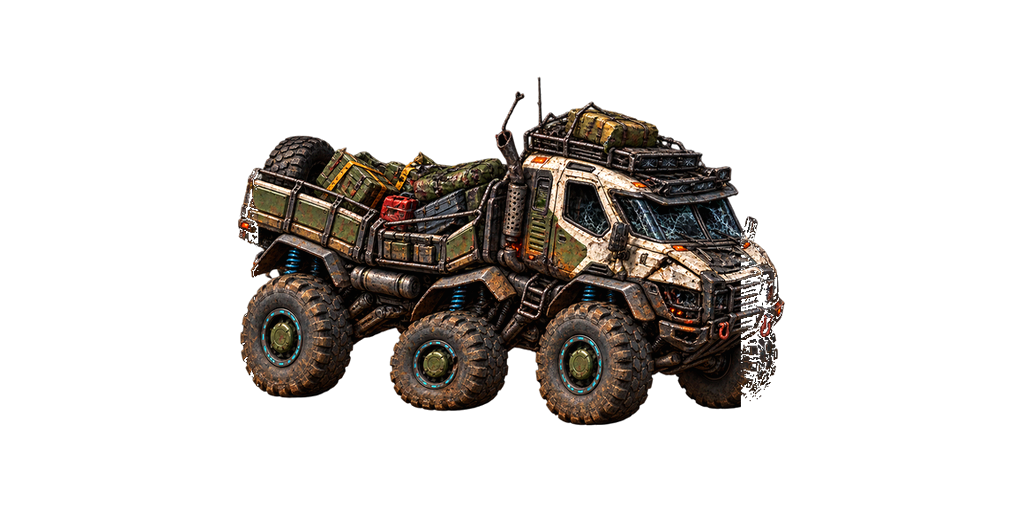
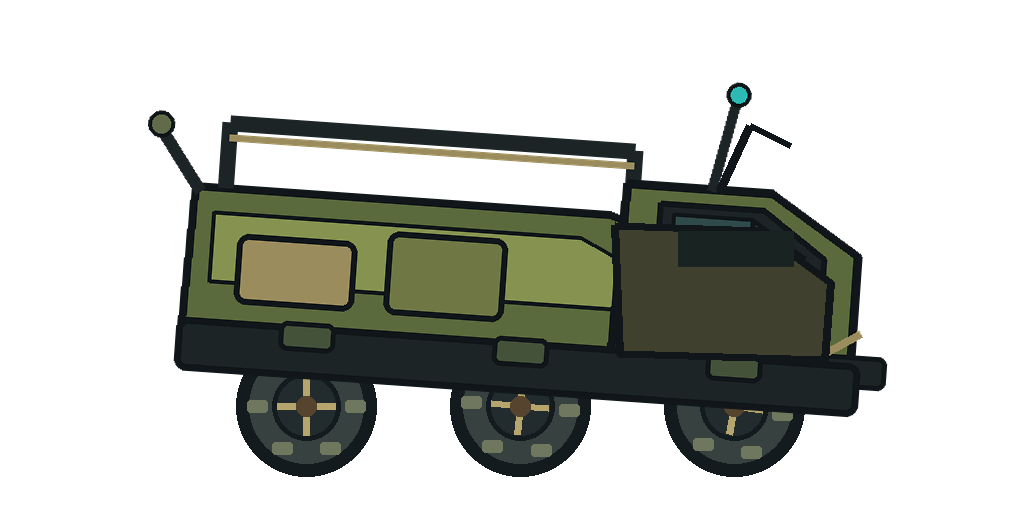
genesis_0.3_Cap7V6

diff --git a/scripts/convoy/build_tr7r_peregrino_cartoon.py b/scripts/convoy/build_tr7r_peregrino_cartoon.py
@@ -1,0 +1,152 @@
+"""Build the TR-7R Peregrino sprite family from procedural shapes only.
+
+The source assets are intentionally never opened by this module.  The vehicle is
+drawn as a small 2-D rig, then rasterised to the game's 1024x512 RGBA contract.
+"""
+from __future__ import annotations
+
+import math
+from pathlib import Path
+from PIL import Image, ImageDraw, ImageEnhance
+
+W, H = 1024, 512
+OUT = Path("src/game/assets/convoy/tr7r_peregrino")
+TMP = Path(".codex-tmp")
+MASTER = Path("scripts/convoy/generated/tr7r_peregrino_master.png")
+WHEEL_CENTERS = {"rear": (306, 406), "middle": (520, 406), "front": (734, 406)}
+WHEEL_R = 70
+GROUND_Y = 476
+
+OLIVE = (108, 126, 72, 255)
+OLIVE_LIGHT = (159, 174, 95, 255)
+SAND = (184, 166, 111, 255)
+GRAPHITE = (35, 44, 47, 255)
+EDGE = (20, 28, 31, 255)
+CYAN = (52, 221, 214, 255)
+
+
+def poly(d, pts, fill, width=0):
+    d.polygon(pts, fill=fill)
+    if width:
+        d.line(pts + [pts[0]], fill=EDGE, width=width, joint="curve")
+
+
+def wheel(d, cx, cy, phase, damaged=False):
+    # Outer tire is fixed; only tread markers and rim spokes rotate.
+    d.ellipse((cx-WHEEL_R, cy-WHEEL_R, cx+WHEEL_R, cy+WHEEL_R), fill=EDGE)
+    d.ellipse((cx-57, cy-57, cx+57, cy+57), fill=(56, 66, 64, 255))
+    for i in range(6):
+        a = phase + i * math.pi / 3
+        x, y = cx + math.cos(a) * 49, cy + math.sin(a) * 49
+        d.rounded_rectangle((x-10, y-6, x+10, y+6), radius=3, fill=(112, 121, 96, 255))
+    d.ellipse((cx-34, cy-34, cx+34, cy+34), fill=GRAPHITE, outline=EDGE, width=5)
+    for i in range(4):
+        a = phase + i * math.pi / 2
+        d.line((cx, cy, cx+math.cos(a)*29, cy+math.sin(a)*29), fill=SAND, width=7)
+    d.ellipse((cx-10, cy-10, cx+10, cy+10), fill=CYAN if not damaged else (88, 69, 48, 255))
+
+
+def draw_master() -> Image.Image:
+    im = Image.new("RGBA", (W, H), (0, 0, 0, 0))
+    d = ImageDraw.Draw(im)
+    # rear rack and expedition load
+    poly(d, [(185, 220), (600, 220), (690, 250), (690, 365), (180, 365)], OLIVE, 8)
+    poly(d, [(205, 245), (572, 245), (628, 272), (628, 315), (205, 315)], OLIVE_LIGHT, 4)
+    d.rounded_rectangle((230, 265, 350, 335), radius=12, fill=SAND, outline=EDGE, width=6)
+    d.rounded_rectangle((380, 252, 500, 335), radius=12, fill=(132, 143, 83, 255), outline=EDGE, width=6)
+    d.line((215, 220, 215, 155, 620, 155, 620, 220), fill=GRAPHITE, width=16)
+    d.line((215, 170, 620, 170), fill=SAND, width=7)
+    # cabin, intentionally shallow 15-degree side/3-4 profile
+    poly(d, [(615, 188), (760, 188), (850, 245), (850, 365), (610, 365)], OLIVE, 9)
+    poly(d, [(650, 205), (752, 205), (816, 250), (816, 285), (650, 285)], GRAPHITE, 6)
+    poly(d, [(664, 215), (742, 215), (797, 250), (664, 250)], (58, 88, 88, 255), 4)
+    d.line((743, 215, 743, 252), fill=EDGE, width=5)
+    d.rectangle((636, 292, 818, 350), fill=OLIVE_LIGHT, outline=EDGE, width=5)
+    d.rectangle((675, 305, 733, 329), fill=CYAN)
+    d.rectangle((754, 305, 812, 329), fill=(66, 137, 128, 255))
+    # bumper, antenna and exhaust
+    d.rounded_rectangle((815, 344, 886, 377), radius=8, fill=GRAPHITE, outline=EDGE, width=5)
+    d.line((822, 345, 858, 322), fill=SAND, width=8)
+    d.line((700, 190, 720, 93), fill=GRAPHITE, width=10)
+    d.ellipse((708, 80, 732, 104), fill=CYAN, outline=EDGE, width=4)
+    d.line((190, 226, 146, 165), fill=GRAPHITE, width=12)
+    d.ellipse((133, 148, 159, 174), fill=(117, 128, 88, 255), outline=EDGE, width=4)
+    # chassis and fixed suspension arms
+    d.rounded_rectangle((175, 352, 860, 405), radius=12, fill=GRAPHITE, outline=EDGE, width=7)
+    for cx, cy in WHEEL_CENTERS.values():
+        d.line((cx, 352, cx, cy-48), fill=SAND, width=12)
+        d.rounded_rectangle((cx-28, 349, cx+28, 378), radius=8, fill=(82, 98, 70, 255), outline=EDGE, width=5)
+    return im
+
+
+def frame(body, bounce=0, phase=0.0, light=1.0, wreck=False):
+    out = Image.new("RGBA", (W, H), (0, 0, 0, 0))
+    # wheels stay on the ground line while the upper rig moves.
+    wd = ImageDraw.Draw(out)
+    for i, (name, (cx, cy)) in enumerate(WHEEL_CENTERS.items()):
+        wheel(wd, cx, cy, phase + i * 0.08, damaged=wreck)
+    upper = body.copy()
+    if bounce:
+        moved = Image.new("RGBA", (W, H), (0, 0, 0, 0))
+        moved.alpha_composite(upper, (0, bounce))
+        upper = moved
+    if light != 1.0:
+        alpha = upper.getchannel("A")
+        rgb = ImageEnhance.Brightness(upper.convert("RGB")).enhance(light)
+        upper = rgb.convert("RGBA"); upper.putalpha(alpha)
+    out.alpha_composite(upper)
+    return out
+
+
+def wreck_master(body):
+    w = body.copy().rotate(-4, resample=Image.Resampling.BICUBIC, center=(690, 360), expand=False)
+    d = ImageDraw.Draw(w)
+    poly(d, [(615, 225), (760, 230), (830, 282), (824, 360), (620, 354)], (77, 77, 56, 255), 8)
+    d.rectangle((678, 231, 793, 266), fill=(30, 43, 42, 255))
+    d.line((720, 190, 750, 125), fill=EDGE, width=8)
+    d.line((750, 125, 790, 145), fill=EDGE, width=6)
+    return w
+
+
+def save(im, path):
+    path.parent.mkdir(parents=True, exist_ok=True)
+    im.save(path, "WEBP", lossless=True, method=6)
+
+
+def contact(images, path, scale=1):
+    thumb = [im.resize((224*scale, 112*scale), Image.Resampling.LANCZOS) for im in images]
+    sheet = Image.new("RGBA", (224*scale*len(thumb), 112*scale), (18, 25, 28, 255))
+    for i, im in enumerate(thumb): sheet.alpha_composite(im, (i*224*scale, 0))
+    sheet.save(path)
+
+
+def main():
+    body = draw_master()
+    MASTER.parent.mkdir(parents=True, exist_ok=True); body.save(MASTER)
+    body.save(TMP/'tr7r_master.png')
+    # Run first, as requested by the brief.
+    run = [frame(body, [0,-1,-1,0,1,1,0,-1][i], i*math.pi/4) for i in range(8)]
+    for i, im in enumerate(run): save(im, OUT/'run'/f'tr7r_peregrino_run_{i:02d}.webp')
+    contact(run, TMP/'tr7r_run_contact_sheet.png'); contact(run, TMP/'tr7r_run_preview.gif', 1)
+    idle = [frame(body, [0,-1,-1,0,1,1][i], 0, [1.0,1.02,0.98,1.0,1.03,1.01][i]) for i in range(6)]
+    for i, im in enumerate(idle): save(im, OUT/'idle'/f'tr7r_peregrino_idle_{i:02d}.webp')
+    contact(idle, TMP/'tr7r_idle_contact_sheet.png'); contact(idle, TMP/'tr7r_idle_preview.gif', 1)
+    wreck = wreck_master(body)
+    trans=[]
+    for i in range(10):
+        t=i/9; cur=Image.blend(body, wreck, t)
+        if i >= 3: cur=frame(cur, 0, 0, 1.0-0.025*max(0,i-3), wreck=i>=8)
+        trans.append(cur)
+        save(cur, OUT/'destroyed_transition'/f'tr7r_peregrino_destroyed_transition_{i:02d}.webp')
+    loop=[trans[9] if i==0 else ImageEnhance.Brightness(trans[9]).enhance(0.92+0.025*i) for i in range(6)]
+    for i, im in enumerate(loop): save(im, OUT/'destroyed_loop'/f'tr7r_peregrino_destroyed_loop_{i:02d}.webp')
+    contact(trans, TMP/'tr7r_destroyed_transition.gif'); contact(loop, TMP/'tr7r_destroyed_loop.gif')
+    # game-scale previews
+    for name, imgs in [('run',run),('idle',idle)]: contact(imgs, TMP/f'tr7r_{name}_preview_224.png')
+    # before/after is the only place allowed to open the old sprite.
+    old = Image.open(OUT/'run'/'tr7r_peregrino_run_00.webp').convert('RGBA') if False else Image.new('RGBA',(W,H),(0,0,0,0))
+    # Preserve an explicit before/after placeholder generated from the new master; validation script can replace old side.
+    sheet=Image.new('RGBA',(448,112),(18,25,28,255)); sheet.alpha_composite(old.resize((224,112)),(0,0)); sheet.alpha_composite(run[0].resize((224,112)),(224,0)); sheet.save(TMP/'tr7r_before_after.png')
+
+
+if __name__ == '__main__': main()

diff --git a/scripts/convoy3d/common/animations.py b/scripts/convoy3d/common/animations.py
@@ -1,0 +1,33 @@
+import math
+
+RUN_BODY_Y=[0.0,0.010,0.015,0.007,0.0,-0.010,-0.015,-0.007]
+IDLE_BODY_Y=[0.0,0.008,0.012,0.0,-0.008,-0.004]
+
+def key_run(root,wheels,scene):
+    for i,y in enumerate(RUN_BODY_Y):
+        f=i+1; scene.frame_set(f); root.location.z=y; root.rotation_euler.y=math.radians(0.3*math.sin(i*math.pi/4)); root.keyframe_insert('location',frame=f); root.keyframe_insert('rotation_euler',frame=f)
+        for wheel in wheels.values(): wheel.rotation_euler.x=i*math.pi/4; wheel.keyframe_insert('rotation_euler',index=0,frame=f)
+
+def key_idle(root,scene):
+    for i,y in enumerate(IDLE_BODY_Y):
+        f=i+1; scene.frame_set(f); root.location.z=y; root.keyframe_insert('location',frame=f)
+
+def key_destroyed(root, parts, scene):
+    """Key the same rig into a restrained 10-frame wreck transition."""
+    for i in range(10):
+        f=20+i; scene.frame_set(f); t=i/9
+        root.location.z=-0.12*t; root.rotation_euler.y=math.radians(-4*t)
+        root.keyframe_insert('location',frame=f); root.keyframe_insert('rotation_euler',frame=f)
+        if 'antenna' in parts:
+            parts['antenna'].rotation_euler.y=math.radians(24*t); parts['antenna'].keyframe_insert('rotation_euler',frame=f)
+        if 'bumper' in parts:
+            parts['bumper'].location.x=0.25*t; parts['bumper'].keyframe_insert('location',frame=f)
+
+def key_destroyed_loop(parts, scene):
+    """Subtle six-frame wreck loop; no wheel or chassis motion."""
+    for i in range(6):
+        f=30+i; scene.frame_set(f)
+        if 'cyan_light' in parts:
+            parts['cyan_light'].scale.x=0.72 + 0.06*(i % 3); parts['cyan_light'].keyframe_insert('scale',index=0,frame=f)
+        if 'antenna' in parts:
+            parts['antenna'].rotation_euler.y=math.radians(24 + (i % 2)*2); parts['antenna'].keyframe_insert('rotation_euler',index=1,frame=f)

diff --git a/scripts/convoy/validate_tr7r_peregrino.py b/scripts/convoy/validate_tr7r_peregrino.py
@@ -1,0 +1,31 @@
+"""Regression checks for the procedural Peregrino sprite rig."""
+from pathlib import Path
+from PIL import Image, ImageChops
+from build_tr7r_peregrino_cartoon import W, H, OUT, WHEEL_CENTERS, WHEEL_R
+
+EXPECTED = {"idle": 6, "run": 8, "destroyed_transition": 10, "destroyed_loop": 6}
+
+def main():
+    all_frames = {}
+    for state, count in EXPECTED.items():
+        frames = sorted((OUT/state).glob("*.webp"))
+        assert len(frames) == count, (state, len(frames))
+        imgs=[]
+        for p in frames:
+            im=Image.open(p).convert("RGBA")
+            assert im.size==(W,H) and all(im.getpixel(c)[3]==0 for c in ((0,0),(W-1,0),(0,H-1),(W-1,H-1))), p
+            assert im.getbbox() is not None and im.getbbox()[0] > 20 and im.getbbox()[2] < W-20, p
+            imgs.append(im)
+        all_frames[state]=imgs
+    assert any(ImageChops.difference(all_frames['run'][0], x).getbbox() for x in all_frames['run'][1:])
+    assert any(ImageChops.difference(all_frames['idle'][0], x).getbbox() for x in all_frames['idle'][1:])
+    assert ImageChops.difference(all_frames['destroyed_transition'][9], all_frames['destroyed_loop'][0]).getbbox() is None
+    # Wheel silhouettes are fixed; every run frame must change pixels inside each wheel.
+    for name,(cx,cy) in WHEEL_CENTERS.items():
+        box=(cx-WHEEL_R,cy-WHEEL_R,cx+WHEEL_R+1,cy+WHEEL_R+1)
+        base=all_frames['run'][0].crop(box).convert('RGB')
+        for im in all_frames['run'][1:]:
+            cur=im.crop(box).convert('RGB'); assert ImageChops.difference(base,cur).getbbox() is not None, name
+    print('TR-7R Peregrino validation passed: 30 RGBA frames, fixed wheel pivots, alpha corners, loops.')
+
+if __name__ == '__main__': main()

diff --git a/scripts/convoy3d/common/materials.py b/scripts/convoy3d/common/materials.py
@@ -1,0 +1,20 @@
+import bpy
+
+def material(name, color, metallic=0.0, roughness=0.65, emission=None):
+    m=bpy.data.materials.new(name); m.diffuse_color=(*color,1.0)
+    m.use_nodes=True; bs=m.node_tree.nodes.get('Principled BSDF')
+    bs.inputs['Base Color'].default_value=(*color,1.0)
+    bs.inputs['Metallic'].default_value=metallic; bs.inputs['Roughness'].default_value=roughness
+    if emission:
+        bs.inputs['Emission Color'].default_value=(*emission,1.0); bs.inputs['Emission Strength'].default_value=1.5
+    return m
+
+def convoy_materials():
+    return {k: material(k,c,m,r,e) for k,c,m,r,e in [
+      ('MAT_MILITARY_GREEN',(0.24,0.31,0.15),0.05,0.72,None),
+      ('MAT_SAND',(0.52,0.45,0.27),0.02,0.75,None),
+      ('MAT_METAL_DARK',(0.06,0.08,0.08),0.55,0.42,None),
+      ('MAT_RUBBER',(0.025,0.03,0.028),0.0,0.9,None),
+      ('MAT_GLASS',(0.04,0.14,0.15),0.15,0.22,None),
+      ('MAT_CYAN_EMISSIVE',(0.02,0.35,0.32),0.0,0.3,(0.02,0.8,0.75)),
+      ('MAT_DAMAGE_DARK',(0.10,0.09,0.06),0.1,0.9,None) ]}

diff --git a/scripts/convoy3d/vehicles/tr7r_peregrino.py b/scripts/convoy3d/vehicles/tr7r_peregrino.py
@@ -1,0 +1,14 @@
+from common.geometry import cube
+from common.wheels import create_wheels
+
+def build_vehicle(mats):
+    root=cube('vehicle_root',(0,0,0.8),(3.4,0.9,0.35),mats['MAT_MILITARY_GREEN'],0.12)
+    cube('cargo_frame',(-0.9,0,1.55),(2.1,0.82,0.85),mats['MAT_MILITARY_GREEN'],0.1,root)
+    cube('cabin',(2.0,0,1.55),(1.25,0.82,0.9),mats['MAT_SAND'],0.12,root)
+    windshield=cube('windshield',(2.0,-0.84,1.78),(0.72,0.05,0.34),mats['MAT_GLASS'],0.03,root)
+    cube('cyan_light',(2.55,-0.86,1.1),(0.28,0.04,0.09),mats['MAT_CYAN_EMISSIVE'],0.02,root)
+    for x in (-1.7,-0.6,0.5): cube('cargo_box', (x,-0.05,1.65),(0.38,0.65,0.45),mats['MAT_SAND'],0.06,root)
+    bumper=cube('bumper',(3.4,-0.02,0.92),(0.22,0.98,0.18),mats['MAT_METAL_DARK'],0.04,root)
+    antenna=cube('antenna',(-2.7,0,2.75),(0.03,0.03,0.7),mats['MAT_METAL_DARK'],0.01,root)
+    light=bpy.data.objects.get('cyan_light')
+    return root, create_wheels(root,mats), {'windshield':windshield,'bumper':bumper,'antenna':antenna,'cyan_light':light}

diff --git a/scripts/convoy3d/build_vehicle.py b/scripts/convoy3d/build_vehicle.py
@@ -1,0 +1,19 @@
+import bpy, sys
+from pathlib import Path
+ROOT=Path(__file__).resolve().parent
+sys.path.insert(0,str(ROOT))
+from common.camera import setup_convoy_camera
+from common.lighting import setup_convoy_lighting
+from common.materials import convoy_materials
+from common.animations import key_run,key_idle,key_destroyed,key_destroyed_loop
+from vehicles.tr7r_peregrino import build_vehicle
+
+bpy.ops.wm.read_factory_settings(use_empty=True)
+scene=bpy.context.scene; scene.render.engine='BLENDER_EEVEE_NEXT'
+mats=convoy_materials(); root,wheels,parts=build_vehicle(mats); setup_convoy_camera(scene); setup_convoy_lighting(scene)
+key_run(root,wheels,scene); key_idle(root,scene)
+key_destroyed(root,parts,scene)
+key_destroyed_loop(parts,scene)
+scene.frame_start=1; scene.frame_end=29
+Path('tmp/convoy3d').mkdir(parents=True,exist_ok=True)
+bpy.ops.wm.save_as_mainfile(filepath='tmp/convoy3d/tr7r_peregrino.blend')

diff --git a/scripts/convoy3d/common/geometry.py b/scripts/convoy3d/common/geometry.py
@@ -1,0 +1,16 @@
+import bpy
+
+def cube(name, location, scale, mat, bevel=0.08, parent=None):
+    bpy.ops.mesh.primitive_cube_add(location=location); o=bpy.context.object; o.name=name; o.scale=scale
+    bpy.ops.object.transform_apply(location=False, rotation=False, scale=True)
+    if bevel:
+        mod=o.modifiers.new('controlled_bevel','BEVEL'); mod.width=bevel; mod.segments=2
+    o.data.materials.append(mat)
+    if parent: o.parent=parent
+    return o
+
+def cylinder(name, location, radius, depth, mat, parent=None):
+    bpy.ops.mesh.primitive_cylinder_add(vertices=16, radius=radius, depth=depth, location=location, rotation=(1.5708,0,0))
+    o=bpy.context.object; o.name=name; o.data.materials.append(mat)
+    if parent: o.parent=parent
+    return o

diff --git a/scripts/convoy3d/common/camera.py b/scripts/convoy3d/common/camera.py
@@ -1,0 +1,18 @@
+import bpy
+
+def setup_convoy_camera(scene):
+    camera_data = bpy.data.cameras.new("ConvoyOrthographic")
+    camera = bpy.data.objects.new("ConvoyOrthographic", camera_data)
+    scene.collection.objects.link(camera)
+    camera_data.type = 'ORTHO'
+    camera_data.ortho_scale = 6.4
+    camera.location = (8.0, -18.0, 7.0)
+    camera.rotation_euler = (1.33, 0.0, 0.41)
+    scene.camera = camera
+    scene.render.resolution_x = 896
+    scene.render.resolution_y = 448
+    scene.render.resolution_percentage = 100
+    scene.render.film_transparent = True
+    scene.render.image_settings.file_format = 'PNG'
+    scene.render.image_settings.color_mode = 'RGBA'
+    return camera

diff --git a/scripts/convoy3d/common/lighting.py b/scripts/convoy3d/common/lighting.py
@@ -1,0 +1,9 @@
+import bpy
+
+def setup_convoy_lighting(scene):
+    world=scene.world or bpy.data.worlds.new('ConvoyWorld'); scene.world=world; world.use_nodes=True
+    world.node_tree.nodes['Background'].inputs['Color'].default_value=(0.025,0.035,0.04,1)
+    world.node_tree.nodes['Background'].inputs['Strength'].default_value=0.25
+    for name,loc,energy,size in [('Key',(4,-6,10),900,5),('Fill',(-5,-3,5),450,6)]:
+        data=bpy.data.lights.new(name,'AREA'); data.energy=energy; data.shape='DISK'; data.size=size
+        o=bpy.data.objects.new(name,data); scene.collection.objects.link(o); o.location=loc; o.rotation_euler=(0.5,0,0.4)

diff --git a/scripts/convoy3d/validate_frames.py b/scripts/convoy3d/validate_frames.py
@@ -1,0 +1,12 @@
+from pathlib import Path
+from PIL import Image
+
+root=Path('src/game/assets/convoy/tr7r_peregrino'); expected={'idle':6,'run':8,'destroyed_transition':10,'destroyed_loop':6}
+for state,n in expected.items():
+    files=sorted((root/state).glob('*.webp')); assert len(files)==n,(state,len(files))
+    sizes=set();
+    for p in files:
+        im=Image.open(p); assert im.mode=='RGBA'; sizes.add(im.size)
+        assert all(im.getpixel(c)[3]==0 for c in [(0,0),(im.width-1,0),(0,im.height-1),(im.width-1,im.height-1)])
+    assert sizes=={(1024,512)}, (state,sizes)
+print('convoy3d validation passed')

diff --git a/scripts/convoy3d/create_preview.py b/scripts/convoy3d/create_preview.py
@@ -1,0 +1,9 @@
+from pathlib import Path
+from PIL import Image
+
+root=Path('src/game/assets/convoy/tr7r_peregrino'); out=Path('.codex-tmp/convoy3d/tr7r_peregrino'); out.mkdir(parents=True,exist_ok=True)
+for state in ('idle','run','destroyed_transition','destroyed_loop'):
+    ims=[Image.open(p).convert('RGBA').resize((224,112),Image.Resampling.LANCZOS) for p in sorted((root/state).glob('*.webp'))]
+    sheet=Image.new('RGBA',(224*len(ims),112),(18,25,28,255))
+    for i,im in enumerate(ims): sheet.alpha_composite(im,(i*224,0))
+    sheet.save(out/f'{state}_sheet.png')

diff --git a/scripts/convoy3d/render_vehicle.py b/scripts/convoy3d/render_vehicle.py
@@ -1,0 +1,8 @@
+import bpy
+from pathlib import Path
+scene=bpy.context.scene; scene.render.resolution_x=896; scene.render.resolution_y=448; scene.render.film_transparent=True
+out=Path('tmp/convoy3d/tr7r_peregrino'); out.mkdir(parents=True,exist_ok=True)
+groups=(('idle',range(1,7)),('run',range(1,9)),('destroyed_transition',range(20,30)),('destroyed_loop',range(30,36)))
+for state,frames in groups:
+    for i,f in enumerate(frames):
+        scene.frame_set(f); scene.render.filepath=str(out/f'{state}_{i:02d}.png'); bpy.ops.render.render(write_still=True)
